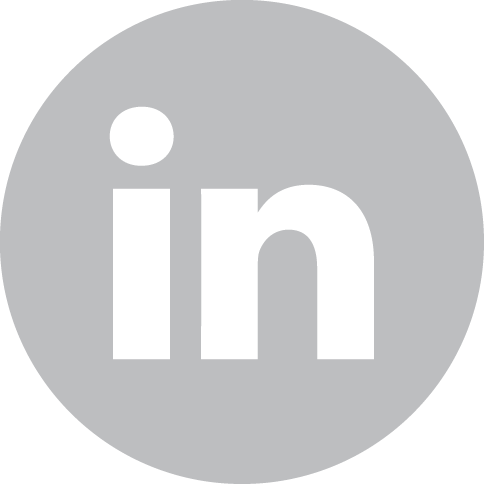
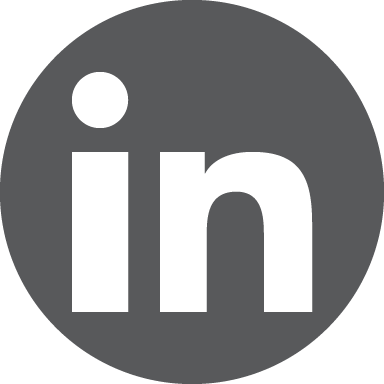
update

diff --git a/css/style.css b/css/style.css
@@ -11,6 +11,21 @@ div#header {
   z-index: 10;
 }
 
+.resume {
+  background-size: cover;
+  background-image: url('../img/cv.png');
+  height: 50px;
+  width: 50px;
+  display: inline-block;
+  position: fixed;
+  top: 25px;
+  right: 150px;
+  border-radius: 50%;
+  cursor: pointer;
+  filter: grayscale(100%) brightness(2);
+  z-index: 1;
+}
+
 .linkedin {
   background-size: cover;
   background-image: url('../img/linkedin.png');
@@ -22,6 +37,7 @@ div#header {
   right: 85px;
   border-radius: 50%;
   cursor: pointer;
+  filter: brightness(120%);
 }
 
 .github {
@@ -35,6 +51,30 @@ div#header {
   right: 20px;
   border-radius: 50%;
   cursor: pointer;
+  filter: brightness(90%);
+  z-index: 1;
+}
+
+.white-box1 {
+  background-color: white;
+  height: 50px;
+  width: 50px;
+  display: inline-block;
+  position: fixed;
+  top: 25px;
+  right: 150px;
+  border-radius: 50%;
+  border: 2px solid #6B6B6B;
+}
+.white-box2 {
+  background-color: white;
+  height: 48px;
+  width: 48px;
+  display: inline-block;
+  position: fixed;
+  top: 26px;
+  right: 21px;
+  border-radius: 50%;
 }
 
 div#footer {
@@ -55,6 +95,10 @@ div#footer div {
 
 div#header h1 {
   color: white;
+}
+
+iframe {
+  width: 80%;
 }
 
 div#picture {

diff --git a/js/script.js b/js/script.js
@@ -7,6 +7,9 @@ $(document).ready(function(){
   $('.github').click(function() {
     window.open('https://github.com/thalsted', '_blank')
   })
+  $('.resume').click(function() {
+    window.open('https://drive.google.com/open?id=0B07VzSWuKS26dlZqQXNrUmxjVmM', '_blank')
+  })
 
   var detectmob = function() {
    if( navigator.userAgent.match(/Android/i)

diff --git a/home.html b/home.html
@@ -34,8 +34,11 @@
          </ul>
         </li>
       </ul>
+      <div class="link-icon resume z-depth-2"></div>
+      <div class="white-box1"></div>
       <div class="link-icon linkedin z-depth-2"></div>
       <div class="link-icon github z-depth-2"></div>
+      <div class="white-box2"></div>
     </div>
   </div>
   <div class="row intro">
